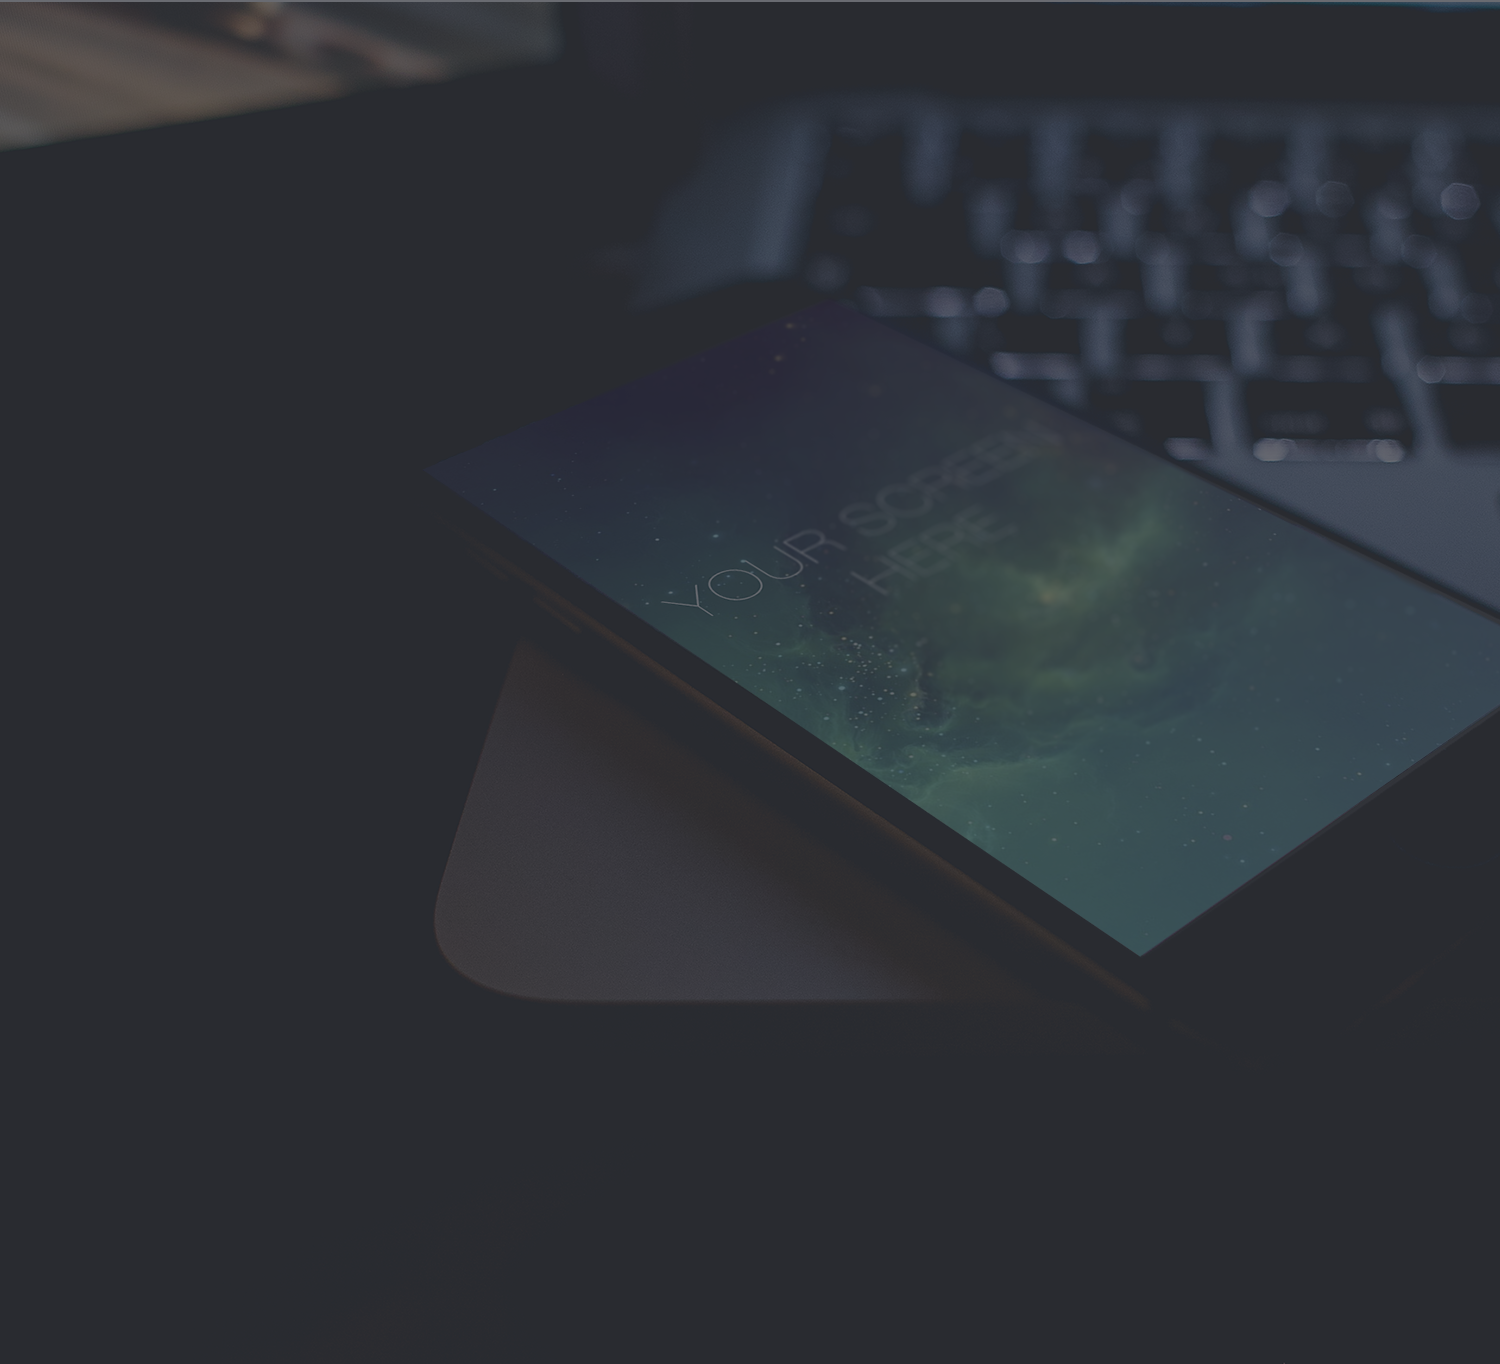
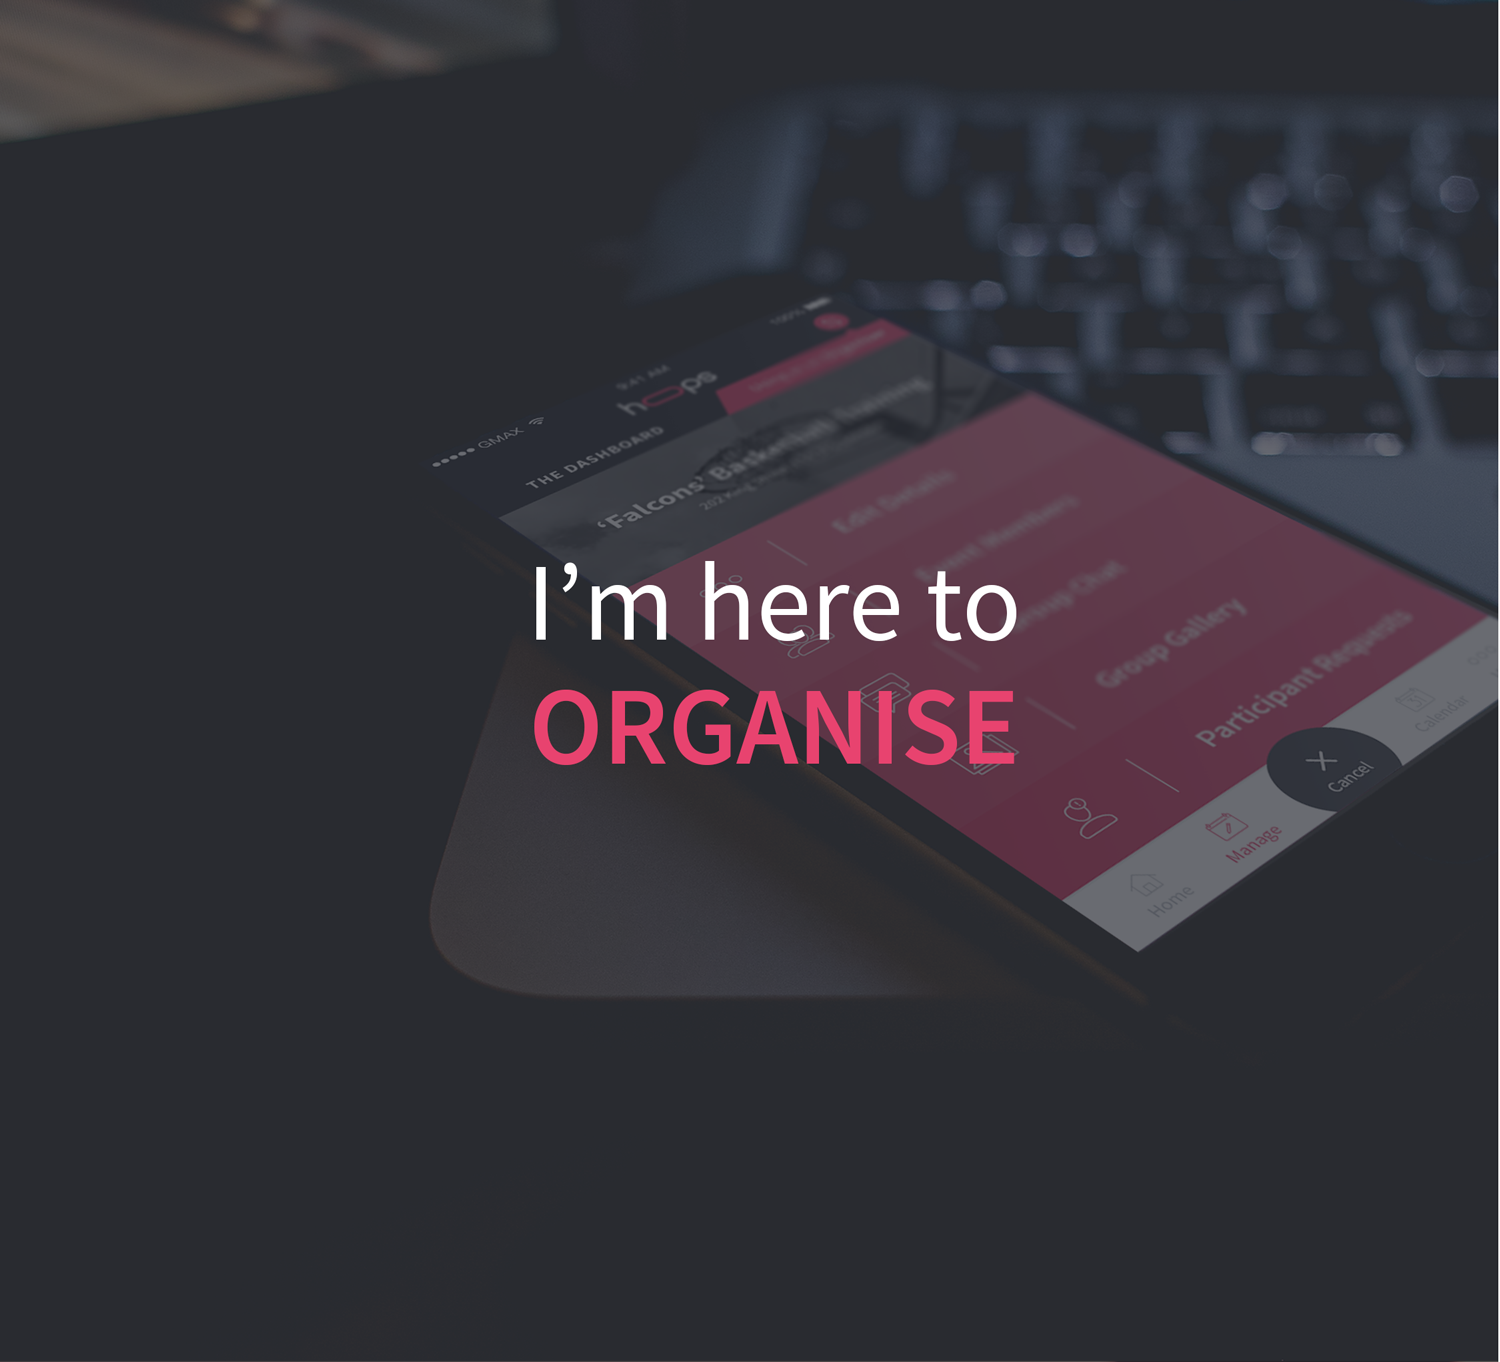
Select mode images replace with text additions (Due to Android touch area bug)

diff --git a/src/windows/select-mode.js b/src/windows/select-mode.js
@@ -2,35 +2,23 @@ import React from 'react'
 import {View, Image, TouchableWithoutFeedback} from 'react-native'
 
 import StyleSheet from '../styles'
-import HighlightText from '../components/highlight-text'
-import _ from '../i18n'
 
-export default class SelectMode extends React.Component {
-
-  onPressOrganize = () => {
-    this.props.onSetMode('ORGANIZE')
-  };
-
-  onPressParticipate = () => {
-    this.props.onSetMode('PARTICIPATE')
-  };
+class SelectMode extends React.Component {
 
   render() {
     return (
       <View style={StyleSheet.interests.selectModeStyle}>
-        <TouchableWithoutFeedback onPress={this.onPressOrganize}>
-          <Image source={StyleSheet.images.organize} style={[StyleSheet.interests.selectModeImageStyle, StyleSheet.interests.organizeImage]}>
-            <HighlightText highlight={_('organize')} text={_('organizeMode')}
-                     style={[StyleSheet.text, StyleSheet.interests.selectModeTextStyle]}
-                     highlightStyle={StyleSheet.interests.selectModeHighlightTextStyle} />
-          </Image>
+        <TouchableWithoutFeedback onPress={() => this.props.onSetMode('ORGANIZE')}>
+          <Image
+            source={StyleSheet.images.organize}
+            style={[StyleSheet.interests.selectModeImageStyle, StyleSheet.interests.organizeImage]}
+          />
         </TouchableWithoutFeedback>
-        <TouchableWithoutFeedback onPress={this.onPressParticipate}>
-          <Image source={StyleSheet.images.participate} style={[StyleSheet.interests.selectModeImageStyle, StyleSheet.interests.participateImage]}>
-            <HighlightText highlight={_('participate')} text={_('participateMode')}
-                     style={[StyleSheet.text, StyleSheet.interests.selectModeTextStyle]}
-                     highlightStyle={StyleSheet.interests.selectModeHighlightTextStyle} />
-          </Image>
+        <TouchableWithoutFeedback onPress={() => this.props.onSetMode('PARTICIPATE')}>
+          <Image
+            source={StyleSheet.images.participate}
+            style={[StyleSheet.interests.selectModeImageStyle, StyleSheet.interests.participateImage]}
+          />
         </TouchableWithoutFeedback>
       </View>
     )
@@ -40,3 +28,5 @@ export default class SelectMode extends React.Component {
 SelectMode.propTypes = {
   onSetMode: React.PropTypes.func.isRequired,
 }
+
+export default SelectMode

diff --git a/src/styles/stylesheets/interests.js b/src/styles/stylesheets/interests.js
@@ -86,6 +86,6 @@ export default StyleSheet => StyleSheet.extend({
   },
 
   organizeImage: {
-    paddingTop: 20
+    // paddingTop: 20
   }
 })
